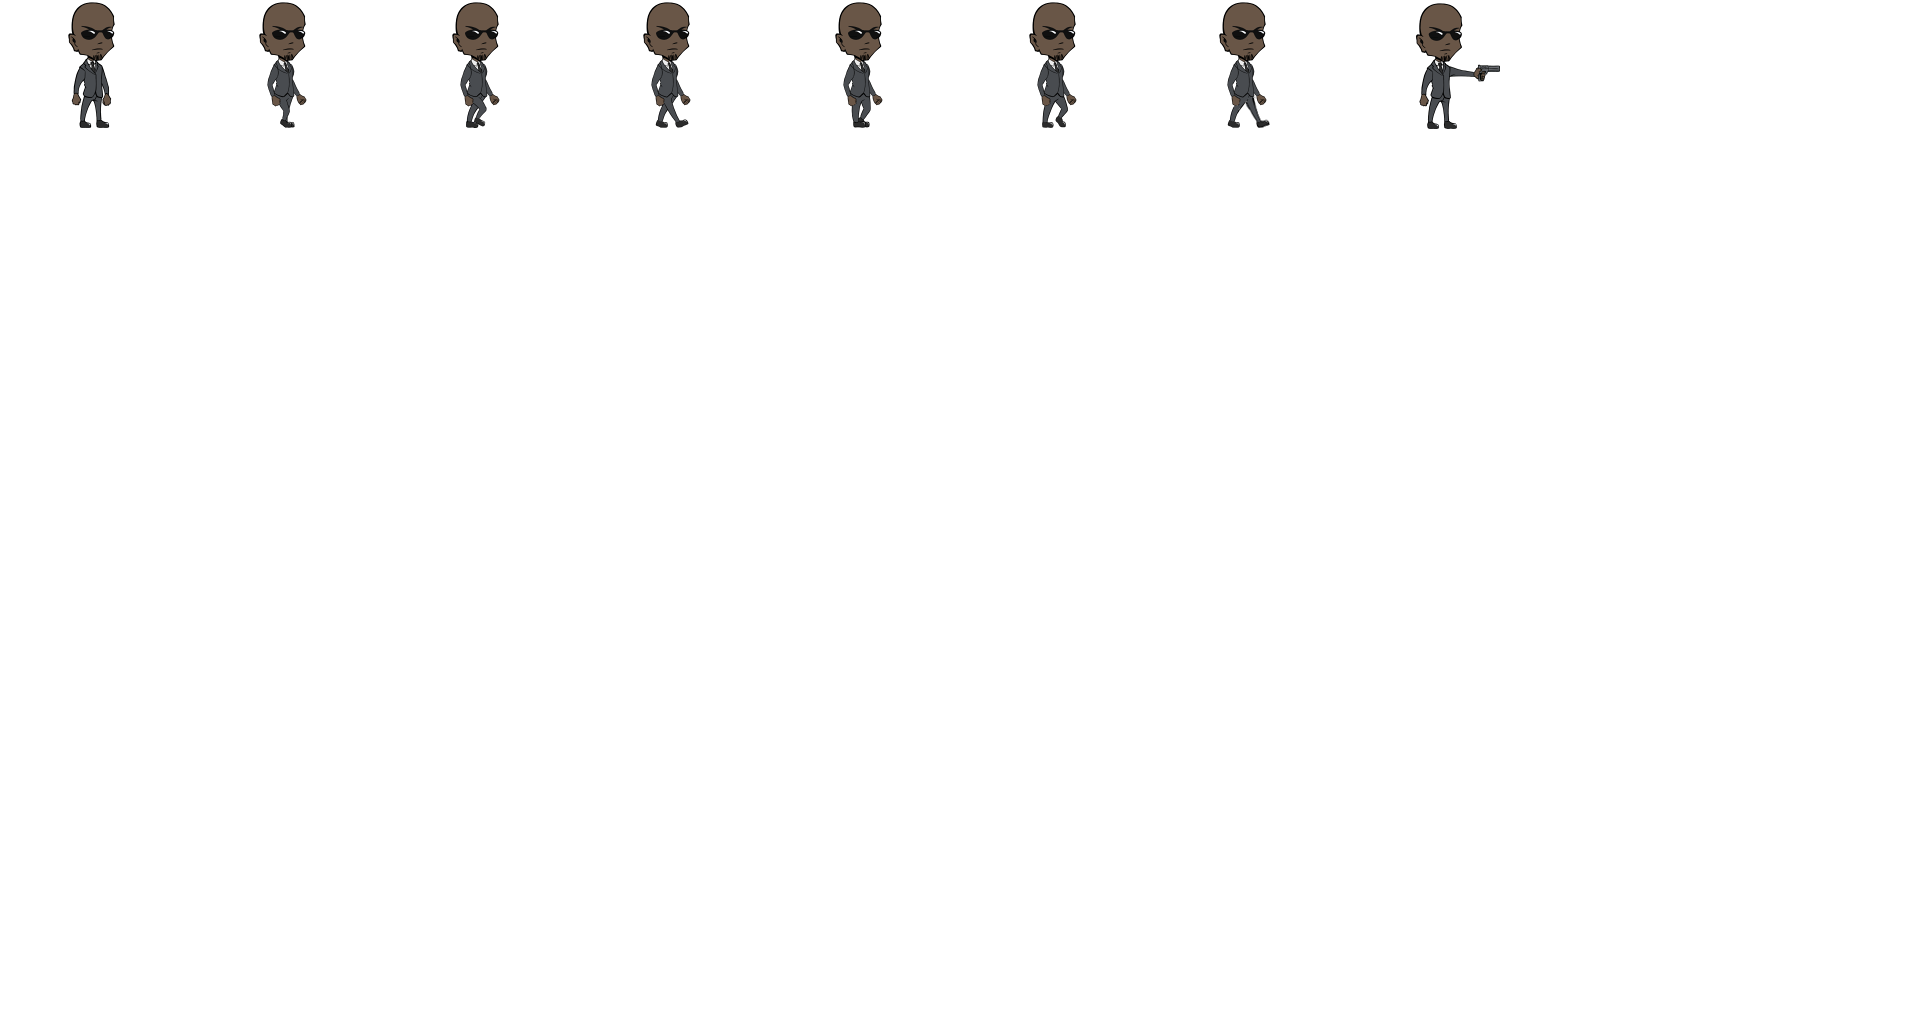
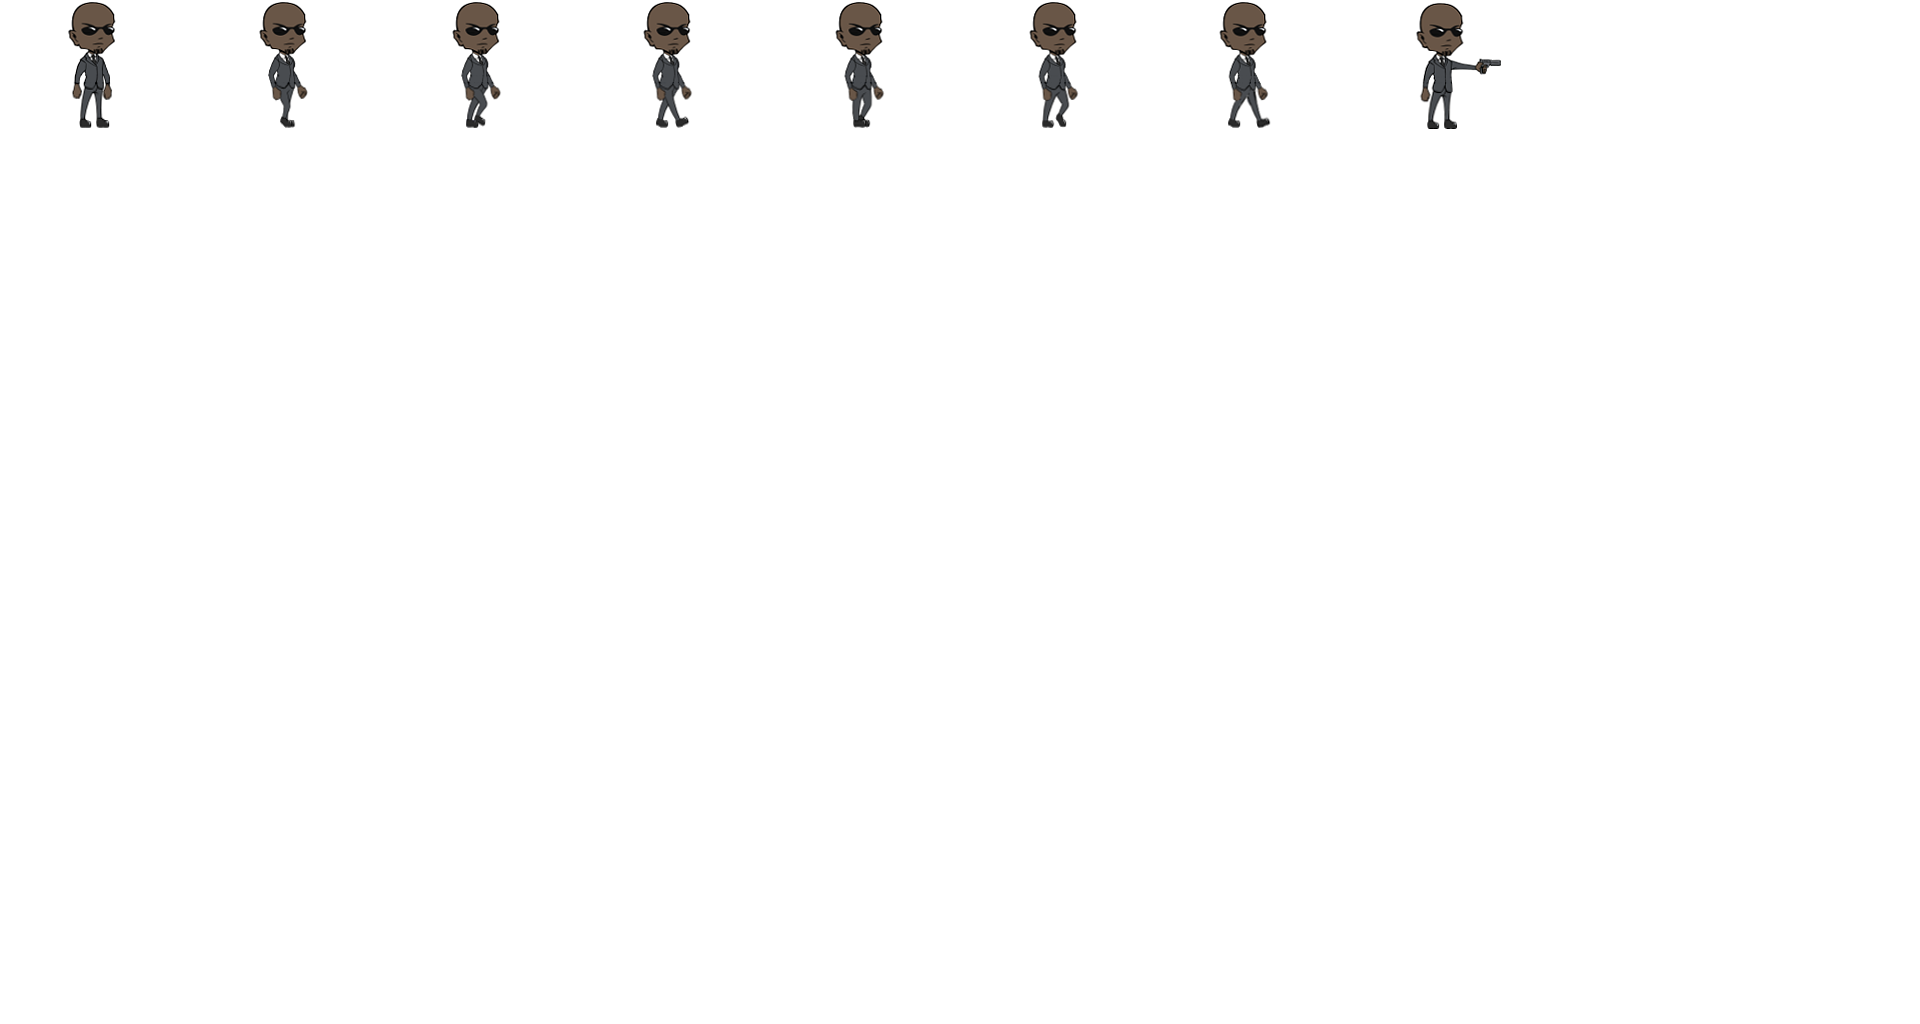
Solucionado bug enemies1
He deformado un poco el sprite de manera que ahora la pistola queda más
arriba al disparar y por tanto la bala sale más alta y así ya no hay
problema cuando un enemigo dispara muy cerca de una caja, porque antes
las desplazaba

diff --git a/components.js b/components.js
@@ -126,7 +126,7 @@ function crearComponentes(Q) {
 
 						if(this.p.time >= this.p.shootTime) {
 								this.p.time = 0;
-								newBullet = new Q.Bullet({ x: this.p.x - 60, y: this.p.y + 5, vx: -100 });
+								newBullet = new Q.Bullet({ x: this.p.x - 60, y: this.p.y - 10, vx: -100 });
 								Q.stage(0).insert(newBullet);
 								setTimeout(function() { newBullet.destroy(); }, 4000);
 						}
@@ -141,7 +141,7 @@ function crearComponentes(Q) {
 
 						if(this.p.time >= this.p.shootTime) {
 								this.p.time = 0;
-								newBullet = new Q.Bullet({ x: this.p.x + 60, y: this.p.y + 5, vx: 100 });
+								newBullet = new Q.Bullet({ x: this.p.x + 60, y: this.p.y - 10, vx: 100 });
 								Q.stage(0).insert(newBullet);
 								setTimeout(function() { newBullet.destroy(); }, 4000);
 						}
